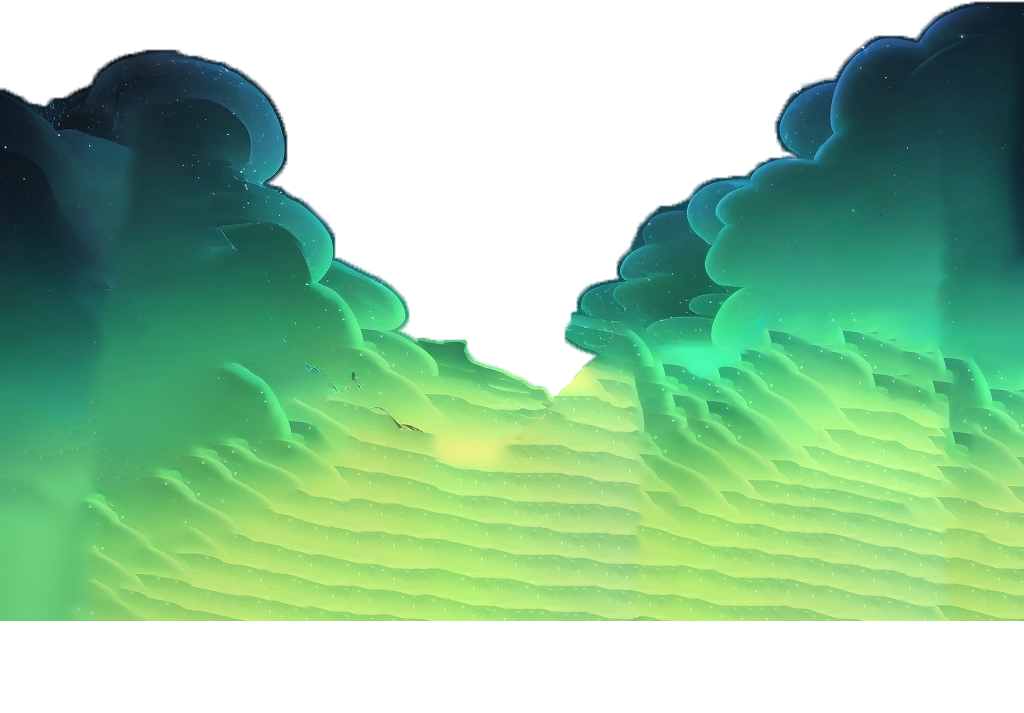
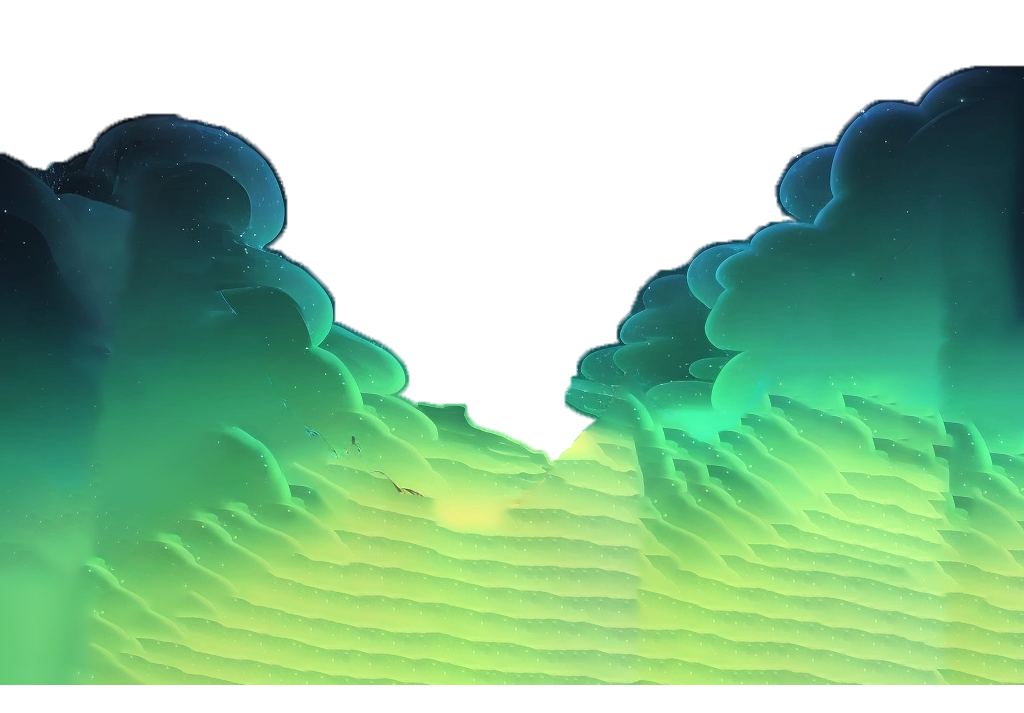
feat: update assets and speechBubble

diff --git a/src/pages/Explorer/Home/index.tsx b/src/pages/Explorer/Home/index.tsx
@@ -1,3 +1,5 @@
+import { url } from 'inspector'
+
 import React, { useRef, useState } from 'react'
 import styled, { useTheme } from 'styled-components'
 import {
@@ -35,24 +37,61 @@ import { useBoundStore } from '@/hooks/useBoundStore'
 type SpeechBubbleLayerProps = { show: string }
 
 const SpeechBubbleParallaxLayer = styled(ParallaxLayer)<SpeechBubbleLayerProps>`
-  background-color: ${(props) => props.theme.palette.text01};
+  /* background-color: ${(props) => props.theme.palette.text01};
   clip-path: polygon(
     0% 5%,
     100% 0%,
     82% 48%,
     18% 48%,
-    14% 56.3%,
+    16% 56.3%,
     14% 48%,
     4% 48%
-  );
+  ); */
   opacity: ${(props) => (props.show === 'true' ? 1 : 0)};
   transition: opacity 0.5s;
+
+  &::before {
+    position: absolute;
+    bottom: -10px;
+    content: '';
+    height: 5%;
+    width: 100%;
+    filter: blur(10px);
+    transform: scale(0.95) translateZ(0);
+    /* background-position: left; */
+    background-size: 200% 200%;
+    background-image: linear-gradient(
+      to left,
+      #e5d6d8,
+      #dabbc9,
+      #c42da8,
+      #9e16c3,
+      #959595,
+      #e5b4f2,
+      #c42da8,
+      #e4428d,
+      #c5c3c3
+    );
+    animation: animateGlow 1.25s infinite;
+    @keyframes animateGlow {
+      0% {
+        background-position: 0% 50%;
+      }
+      100% {
+        background-position: 200% 50%;
+      }
+    }
+  }
 `
 
-const CareerContainer = styled.div<{ show: boolean }>`
-  display: ${(props) => (props.show ? 'block' : 'none')};
-  background-color: white;
-  height: 500px;
+const CareerParallaxLayer = styled(ParallaxLayer)`
+  background-color: ${(props) => props.theme.palette.darkOrange};
+  flex-direction: column;
+  justify-content: center;
+  align-items: center;
+  z-index: 1;
+  position: relative;
+  background: hsl(0, 0%, 100%);
 `
 
 const Image = styled.img`
@@ -67,8 +106,8 @@ const LAYERS = [
   { layer: layer1, zIndex: 1, offset: 1 },
   { layer: layer2, zIndex: 1, offset: 1.05 },
   { layer: layer3, zIndex: 1, offset: 1.05 },
-  { layer: layer4, zIndex: -1, offset: 1.05 },
-  { layer: layer5, zIndex: 1, offset: 1.2 },
+  { layer: layer4, zIndex: -1, offset: 1.05, useImage: true },
+  { layer: layer5, zIndex: 1, offset: 1.25 },
   { layer: layer6, zIndex: 2, offset: 1.25 },
   { layer: layer7, zIndex: 3, offset: 1.35 },
   { layer: layer8, zIndex: 4, offset: 1.8 },
@@ -94,6 +133,11 @@ export const Home = () => {
 
   const handleFinishSpeech = () => {
     setShowCareer(true)
+    if (parallax.current) {
+      {
+        parallax.current.scrollTo(myCareerPage)
+      }
+    }
   }
 
   return (
@@ -133,16 +177,21 @@ export const Home = () => {
             />
           </ParallaxLayer>
 
-          {LAYERS.map(({ layer, zIndex, offset }, i) => {
+          {LAYERS.map(({ layer, zIndex, offset, useImage }, i) => {
             const speed = 0.15 * (i + 1)
             return (
               <ParallaxLayer
                 key={`layer${i}`}
                 offset={offset}
                 speed={speed}
-                style={{ zIndex }}
+                style={{
+                  zIndex,
+                  background: useImage
+                    ? ''
+                    : `url(${layer}) center center / cover no-repeat`,
+                }}
               >
-                <Image src={layer} />
+                {useImage && <Image src={layer} />}
               </ParallaxLayer>
             )
           })}
@@ -158,20 +207,14 @@ export const Home = () => {
             threshold={1}
             uniqueId={Tracker.SPEECH_BUBBLE}
           />
-          <ParallaxLayer
+          <CareerParallaxLayer
             offset={myCareerPage}
             sticky={{ start: myCareerPage, end: 4.5 }}
-            style={{
-              backgroundColor: theme.palette.darkOrange,
-              flexDirection: 'column',
-              justifyContent: 'center',
-              alignItems: 'center',
-              display: showCareer ? 'flex' : 'none',
-            }}
+            style={{ display: showCareer ? 'flex' : 'none' }}
           >
             <Title />
             <ScrollPrompt />
-          </ParallaxLayer>
+          </CareerParallaxLayer>
           <ParallaxLayer
             offset={5}
             sticky={{ start: 5, end: 6 }}
@@ -182,7 +225,6 @@ export const Home = () => {
             <TimelineBackbone />
           </ParallaxLayer>
         </ParallaxSpring>
-        {/* <CareerContainer show={showCareer}>HELLO</CareerContainer> */}
       </ExplorerWrapper>
     </>
   )
